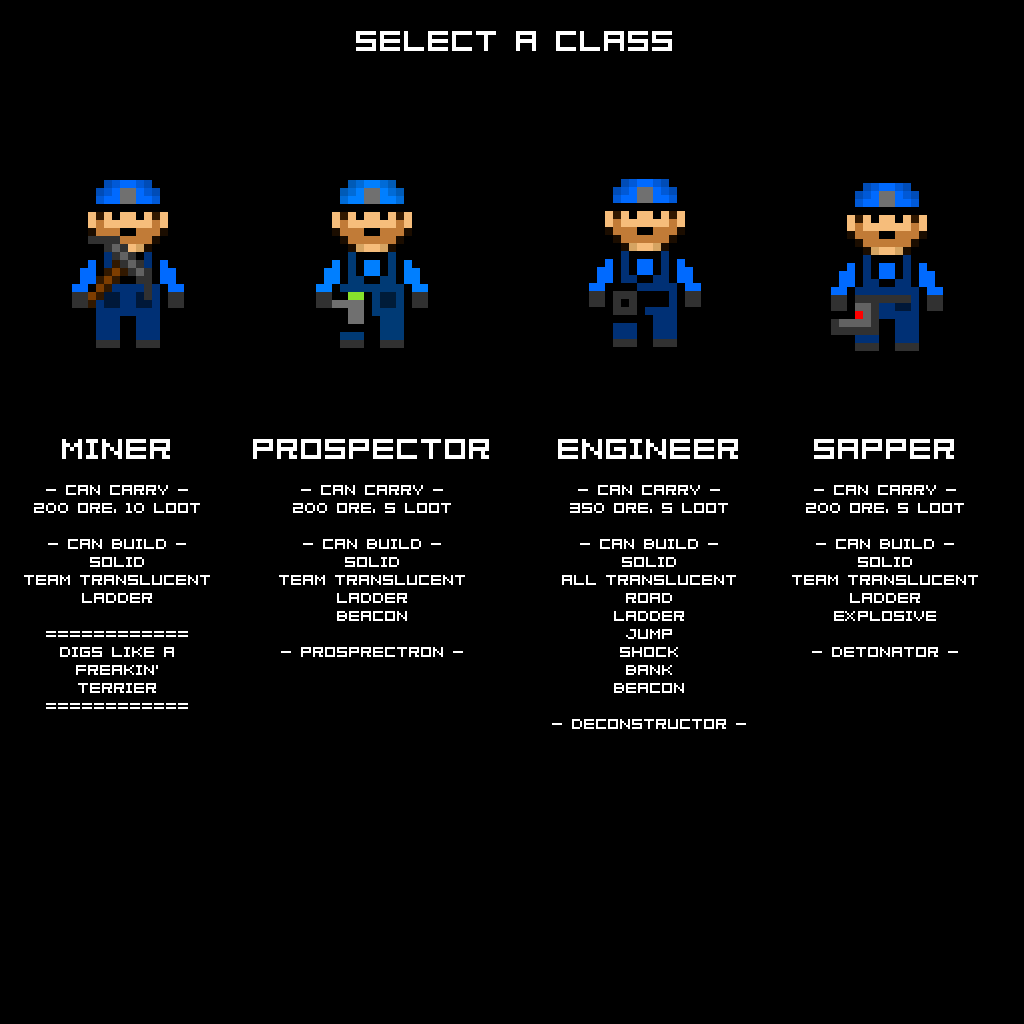
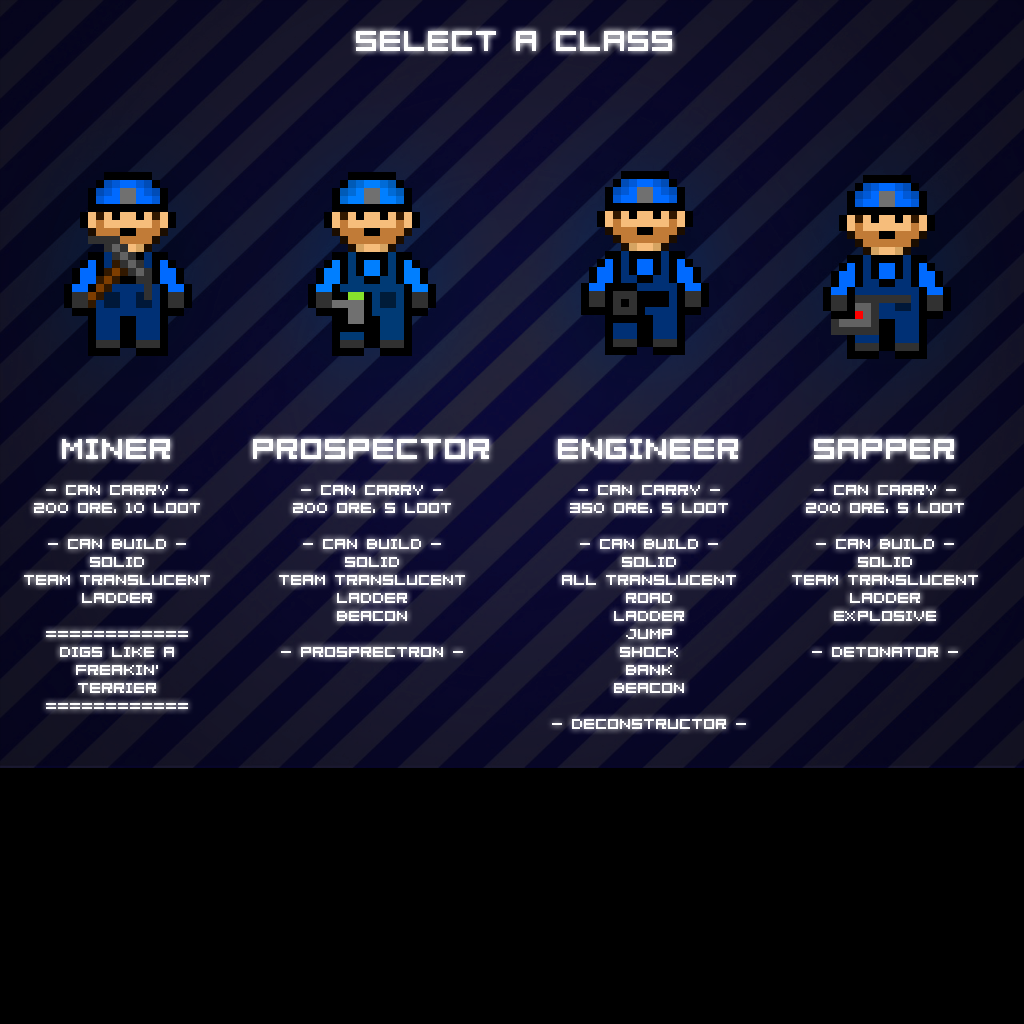
Changed menu textures :)

diff --git a/trunk/InfiniminerClient/Engines/InterfaceEngine.cs b/trunk/InfiniminerClient/Engines/InterfaceEngine.cs
@@ -22,11 +22,10 @@ namespace MineWorld
         public SpriteFont uiFont, radarFont;
         Rectangle drawRect;
 
-        Texture2D texCrosshairs, texBlank, texHelp;
+        Texture2D texCrosshairs, texBlank, texHelpRed,texHelpBlue;
         Texture2D texRadarBackground, texRadarForeground, texRadarPlayerSame, texRadarPlayerAbove, texRadarPlayerBelow, texRadarPlayerPing, texRadarNorth;
         Texture2D texToolRadarRed, texToolRadarBlue, texToolRadarGold, texToolRadarDiamond, texToolRadarLED, texToolRadarPointer, texToolRadarFlash;
         Texture2D texToolDetonatorDownRed, texToolDetonatorUpRed, texToolDetonatorDownBlue, texToolDetonatorUpBlue;
-        Texture2D texToolPickaxeRed, texToolPickaxeBlue;
         Texture2D texToolBuild, texToolBuildCharge, texToolBuildBlast, texToolBuildSmoke;
 
         Dictionary<BlockType, Texture2D> blockIcons = new Dictionary<BlockType, Texture2D>();
@@ -47,7 +46,8 @@ namespace MineWorld
             texRadarPlayerBelow = gameInstance.Content.Load<Texture2D>("ui/tex_radar_player_below");
             texRadarPlayerPing = gameInstance.Content.Load<Texture2D>("ui/tex_radar_player_ping");
             texRadarNorth = gameInstance.Content.Load<Texture2D>("ui/tex_radar_north");
-            texHelp = gameInstance.Content.Load<Texture2D>("menus/tex_menu_help");
+            texHelpRed = gameInstance.Content.Load<Texture2D>("menus/tex_menu_help_red");
+            texHelpBlue = gameInstance.Content.Load<Texture2D>("menus/tex_menu_help_blue");
 
             texToolRadarRed = gameInstance.Content.Load<Texture2D>("tools/tex_tool_radar_red");
             texToolRadarBlue = gameInstance.Content.Load<Texture2D>("tools/tex_tool_radar_blue");
@@ -66,9 +66,6 @@ namespace MineWorld
             texToolDetonatorUpRed = gameInstance.Content.Load<Texture2D>("tools/tex_tool_detonator_up_red");
             texToolDetonatorDownBlue = gameInstance.Content.Load<Texture2D>("tools/tex_tool_detonator_down_blue");
             texToolDetonatorUpBlue = gameInstance.Content.Load<Texture2D>("tools/tex_tool_detonator_up_blue");
-
-            texToolPickaxeRed = gameInstance.Content.Load<Texture2D>("tools/tex_tool_drill_red");
-            texToolPickaxeBlue = gameInstance.Content.Load<Texture2D>("tools/tex_tool_drill_blue");
 
             drawRect = new Rectangle(gameInstance.GraphicsDevice.Viewport.Width / 2 - 1024 / 2,
                                      gameInstance.GraphicsDevice.Viewport.Height / 2 - 768 / 2,
@@ -203,24 +200,6 @@ namespace MineWorld
 
             spriteBatch.Draw(textureToUse, new Rectangle(screenWidth / 2 /*- 22 * 3*/, screenHeight - 77 * 3 + 14 * 3, 75 * 3, 77 * 3), Color.White);
         }
-        public void RenderPickAxe(GraphicsDevice graphicsDevice, SpriteBatch spriteBatch)
-        {
-            int screenWidth = graphicsDevice.Viewport.Width;
-            int screenHeight = graphicsDevice.Viewport.Height;
-            graphicsDevice.SamplerStates[0].MagFilter = TextureFilter.Point;
-            int drawX = screenWidth / 2 - 60 * 3;
-            int drawY = screenHeight - 91 * 3;
-            Texture2D toDraw;
-            if (_P.playerTeam == PlayerTeam.Red)
-            {
-                toDraw = texToolPickaxeRed;
-            }
-            else
-            {
-                toDraw = texToolRadarBlue;
-            }
-            spriteBatch.Draw(toDraw, new Rectangle(drawX, drawY, 120 * 3, 126 * 3), Color.White);
-        }
 
         public void RenderProspectron(GraphicsDevice graphicsDevice, SpriteBatch spriteBatch)
         {
@@ -322,10 +301,6 @@ namespace MineWorld
 
                 case PlayerTools.DeconstructionGun:
                     RenderConstructionGun(graphicsDevice, spriteBatch, BlockType.None);
-                    break;
-
-                case PlayerTools.Pickaxe:
-                    RenderPickAxe(graphicsDevice,spriteBatch);
                     break;
 
                 default:
@@ -483,7 +458,14 @@ namespace MineWorld
             if (Keyboard.GetState().IsKeyDown(Keys.F1))
             {
                 spriteBatch.Draw(texBlank, new Rectangle(0, 0, graphicsDevice.Viewport.Width, graphicsDevice.Viewport.Height), Color.Black);
-                spriteBatch.Draw(texHelp, drawRect, Color.White);
+                if (_P.playerTeam == PlayerTeam.Red)
+                {
+                    spriteBatch.Draw(texHelpRed, drawRect, Color.White);
+                }
+                else
+                {
+                    spriteBatch.Draw(texHelpBlue, drawRect, Color.White);
+                }
             }
 
             spriteBatch.End();
